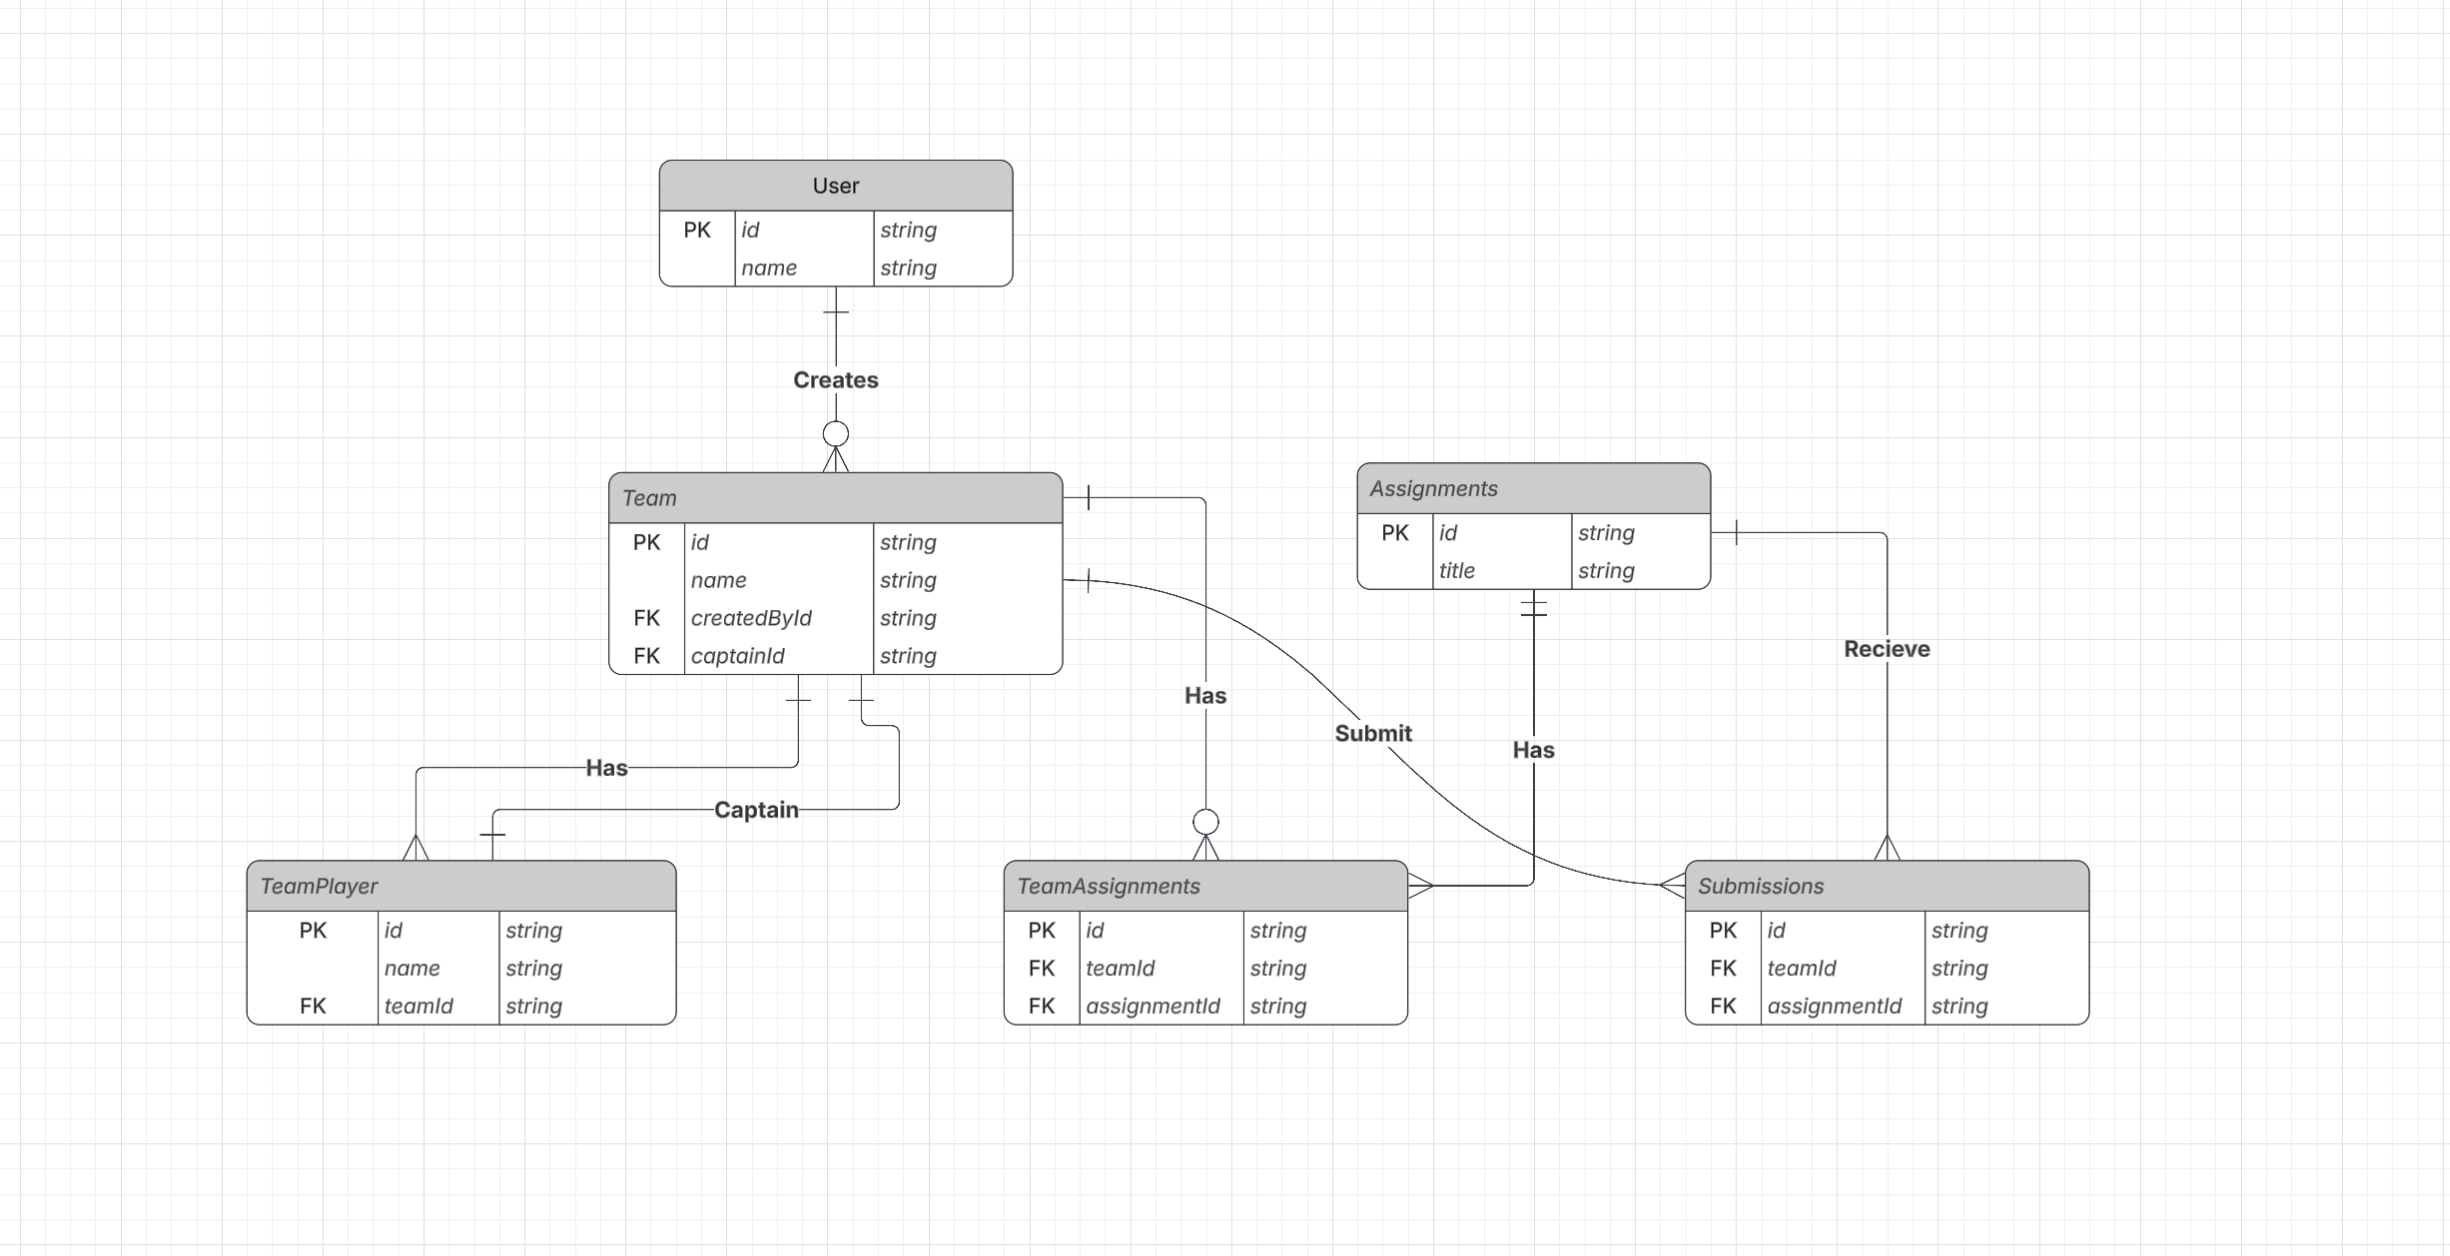
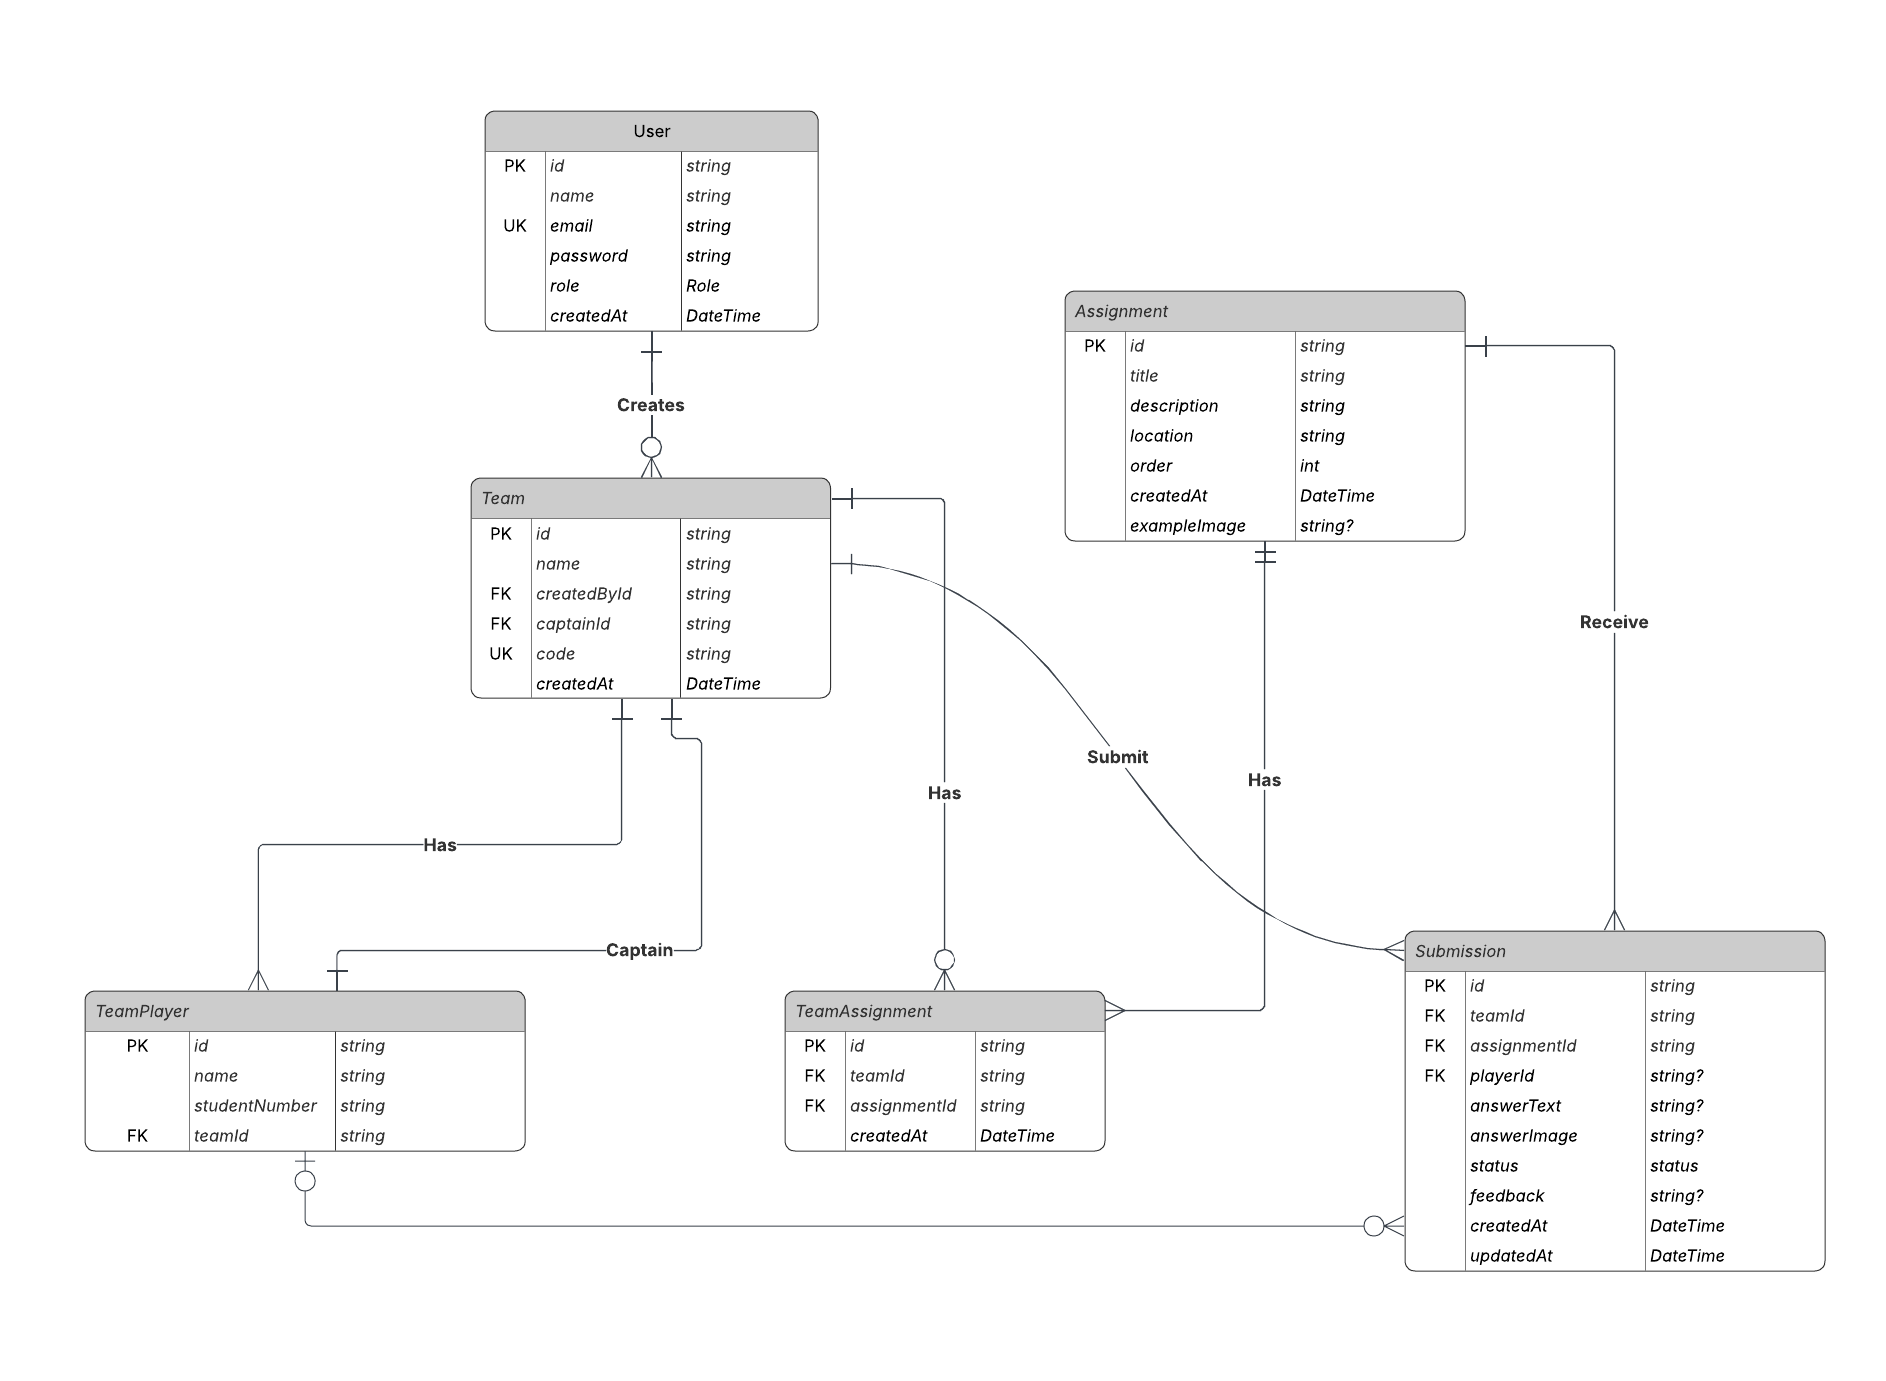
docs changes

diff --git a/examen/02_ontwerp_software.md b/examen/02_ontwerp_software.md
@@ -8,14 +8,16 @@ Het ontwerp is gebaseerd op de eisen, wensen en user stories zoals vastgelegd in
 
 ## Overzicht gekozen diagrammen
 
-Voor dit project zijn de volgende UML-diagrammen uitgewerkt
+Voor dit project zijn de volgende onderdelen uitgewerkt:
 1. **Entity Relationship Diagram (ERD)**
 2. **Sequence Diagram**
+3. **Figma Ontwerp** (deepdive, wireframes & definitief design)
 
 Deze combinatie is gekozen omdat:
 
 * het ERD inzicht geeft in data, relaties en opslag
 * het sequence diagram inzicht geeft in gedrag en interactie tussen systeemonderdelen
+* de Figma ontwerpen aantonen hoe nagedacht is over de UI/UX naast de technische architectuur
 
 
 
@@ -37,7 +39,7 @@ Het ERD bevat 6 entiteiten waaronder:
 * **TeamPlayer** – individuele speler binnen een team
 * **Assignment** – opdracht die uitgevoerd kan worden
 * **TeamAssignment** – koppelt opdrachten aan teams (n-op-n)
-* **Submission** – inzending van een team voor een opdracht
+* **Submission** – inzending van een team voor een opdracht, gekoppeld aan een teamspeler
 
 
 ### Relaties
@@ -54,12 +56,12 @@ Het ERD bevat 6 entiteiten waaronder:
   Elk team heeft een captain, die ook een teamspeler is.
   Dit is de 1-op-1 relatie.
 
-* **Team ↔ Assignment (n-op-n, assigned)**
+* **Team ↔ Assignment (n-op-n, via TeamAssignment)**
   Teams kunnen meerdere opdrachten krijgen en opdrachten kunnen aan meerdere teams worden gekoppeld.
   Deze relatie wordt opgelost met TeamAssignment.
 
-* **Submission (Team + Assignment)**
-  Een submission legt vast welk team welke opdracht heeft ingeleverd en maakt meerdere inzendingen per opdracht mogelijk.
+* **Submission (Team + Assignment + TeamPlayer)**
+  Een submission legt vast welk team, welke opdracht en welke teamspeler een inzending heeft gedaan en maakt meerdere inzendingen per opdracht mogelijk.
 
 
 ### Koppeling ERD aan user stories en eisen
@@ -130,6 +132,76 @@ Het diagram laat de volgende stappen zien:
 Het sequence diagram maakt inzichtelijk hoe deze user story technisch wordt uitgevoerd en waar validatie en foutafhandeling plaatsvinden.
 
 
+## 3. Figma
+
+### Deepdive & Concept
+
+![Deepdive Overzicht](bewijsmateriaal/02/figma/Deepdive%20information.png)
+
+De deepdive is origineel als opdracht aangeleverd en is als basis gebruikt voor de verdere uitwerking van het ontwerp.
+Het beschrijft de paginastructuur, typografie en styleguide van de StadsBingo.
+
+* **Pagina overzicht** – Landingspage, Homepage, Navbar, Map, Contact
+* **Samenvatting Admin** – overzicht van de docentfunctionaliteit
+* **Samenvatting Opdrachten** – overzicht van de opdrachtenstroom
+* **Typografie** – Fonts, heading hierarchie en kleuren
+* **Logo's** – NexEd logo in twee varianten
+
+
+### Wireframes & eerste ontwerp — Admin panel
+
+![Admin panel oud](bewijsmateriaal/02/figma/Admin_panel_OLD.png)
+
+De wireframes tonen de indelingen zonder visuele stijl.
+Hieronder is de eerste uitgewerkte versie van het adminpanel te zien.
+
+* **Login / Landingspagina**
+* **Dashboard docent**
+* **Opdrachten toevoegen & beheren**
+* **Inzending beoordelen** 
+* **Team wijzigen & aanmaken**
+
+
+### Definitief ontwerp — Admin panel
+
+![Admin panel nieuw](bewijsmateriaal/02/figma/Admin_panel_NIEUW_.png)
+
+De werking van het adminpanel is hetzelfde gebleven als het eerste ontwerp.
+Het verschil zit in de UX/UI: de schermen zijn overzichtelijker en consistenter vormgegeven.
+
+
+### Wireframes & definitief ontwerp — Mobiel (Leerling)
+
+![Mobile design user](bewijsmateriaal/02/figma/Mobile%20design%20%28User%29.png)
+
+De mobiele wireframes tonen de basisflow voor de leerling.
+De uitgewerkte designs laten de volledige gebruikersflow zien van inloggen tot opdrachten indienen.
+
+* **Inloggen met teamcode**
+* **Opdrachtenlijst** – met statussen per opdracht
+* **Opdrachtdetail** – beschrijving en foto-upload
+* **Feedback bekijken** – reactie van de docent
+* **Contact & Map pagina**
+
+### Koppeling Figma aan user stories en eisen
+
+**Ondersteunde user stories:**
+
+* Leerling: *Inloggen met teamcode*
+* Leerling: *Opdrachtenlijst en statussen bekijken*
+* Leerling: *Opdracht indienen & feedback verwerken*
+* Docent: *Inzendingen beoordelen*
+
+**Ondersteunde eisen:**
+
+* E1 Teams beheren
+* E2 Inloggen met teamcode
+* E3 Opdrachten per team
+* E4 Opdrachten indienen
+* E5 Status & feedback
+* E6 Inzendingen beoordelen
+
+
 ## Onderbouwing ontwerpkeuzes
 
 ### Privacy
@@ -155,5 +227,5 @@ Het sequence diagram maakt inzichtelijk hoe deze user story technisch wordt uitg
 
 ## Conclusie
 
-Met het ERD en het sequence diagram is een technisch ontwerp gemaakt dat aansluit op de eisen, wensen en user stories van StadsBingo.
-De diagrammen geven inzicht in de datastructuur als de interactie tussen objecten.
+Met het ERD, het sequence diagram en de Figma ontwerpen is een volledig technisch en visueel ontwerp gemaakt dat aansluit op de eisen, wensen en user stories van StadsBingo.
+De diagrammen geven inzicht in de datastructuur en de interactie tussen objecten, terwijl de Figma ontwerpen aantonen hoe de gebruikerservaring is uitgedacht van wireframe tot definitief design.

diff --git a/examen/05_verbetervoorstellen.md b/examen/05_verbetervoorstellen.md
@@ -16,8 +16,12 @@
 
 ## 5.2 Verbeteringen op basis van oplevering
 
+Voor punt 1 en 3 is door Adi een Figma design gemaakt als voorstel:
+
+![Verbetervoorstel Adi](bewijsmateriaal/02/figma/Verbetervoorstel%20Adi.png)
+
 1. **Interactieve tutorial voor studenten**
-   - Studenten hadden in het begin moeite om te begrijpen hoe de app werkt
+   - Studenten hadden in het begin moeite om te begrijpen hoe de applicatie werkt
    - Oplossing: Tutorial slideshow toegevoegd die automatisch verschijnt bij eerste login met screenshots en uitleg van alle stappen
 
 2. **Completion outro bij voltooiing**